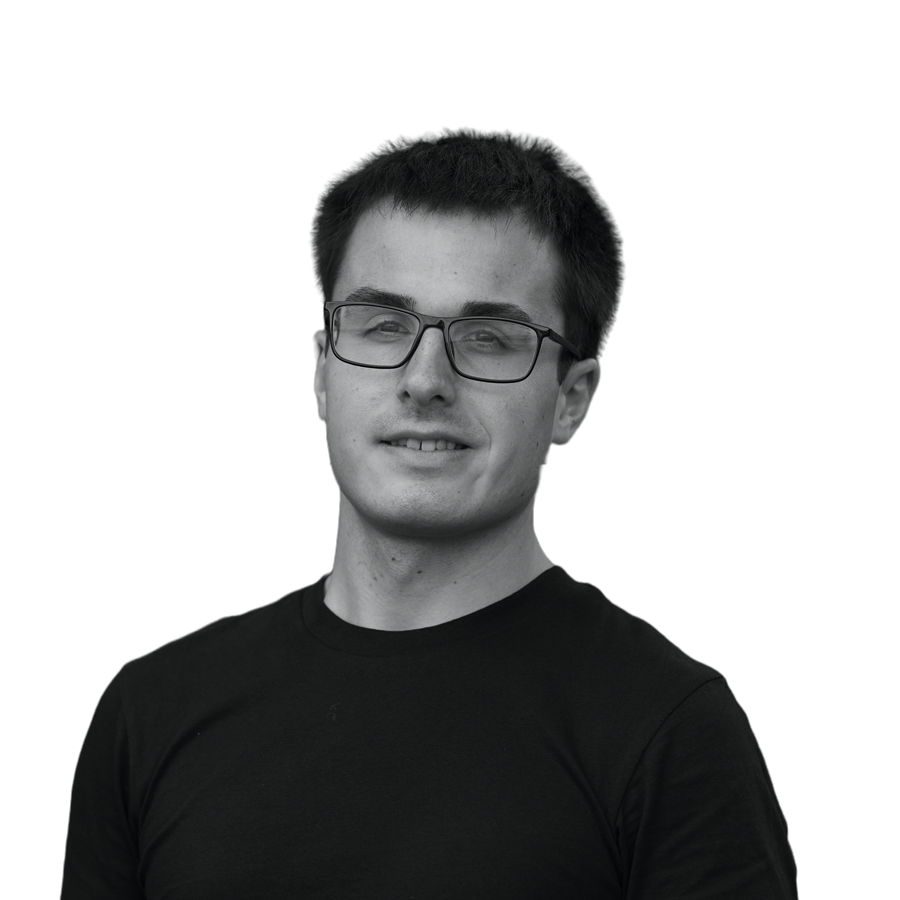
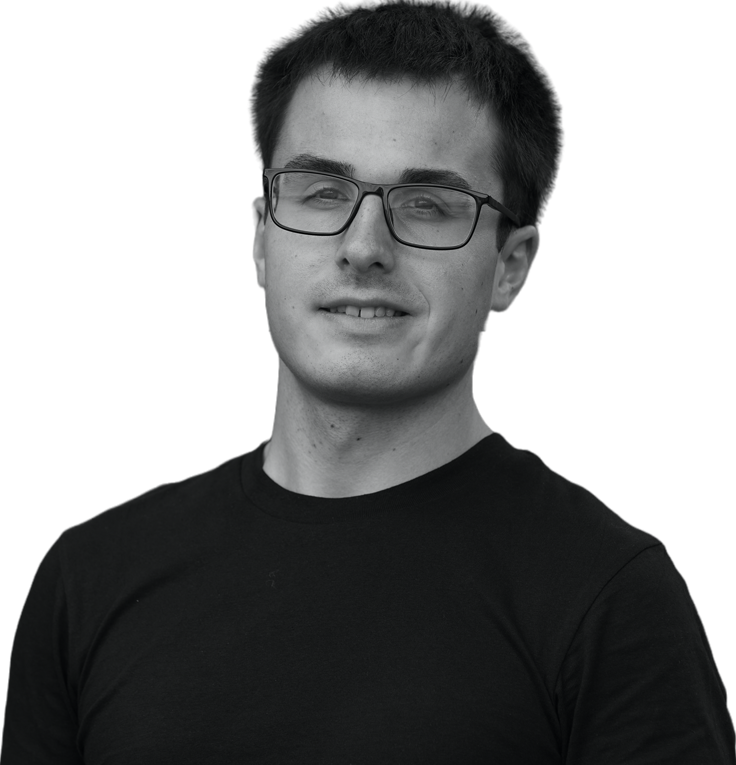
perf: profile image fit crop

Changed region(s): [[0.0, 0.0, 1.0, 1.0]]

diff --git a/src/app/page.module.css b/src/app/page.module.css
@@ -27,9 +27,8 @@
   height: 100%;
   padding-left: 20%;
 }
-.main > .homeContent > h1::after,
-.main > .homeContent > h2::after {
-  content: '';
+.main > .homeContent > h1::after, .main > .homeContent > h2::after {
+  content: "";
 }
 .main > .homeContent > h1 {
   font-size: 6rem;
@@ -76,12 +75,10 @@
   justify-content: flex-end;
   align-items: flex-start;
   gap: 15px;
-  width: 100vw;
   height: 100vh;
   position: absolute;
   right: 0;
   bottom: 0;
-  transform: translateX(55%);
   z-index: 1;
 }
 .main > #profileImageWrapper img {
@@ -153,10 +150,12 @@
   .main > #profileImageWrapper {
     width: -moz-fit-content;
     width: fit-content;
-    transform: translateX(0) translateY(-53%);
+    margin-top: 50px;
     z-index: 0;
   }
   .main > #profileImageWrapper img {
-    width: 400px;
+    width: 100%;
+    -o-object-fit: contain;
+       object-fit: contain;
   }
-} /*# sourceMappingURL=page.module.css.map */
+}/*# sourceMappingURL=page.module.css.map */

diff --git a/src/app/page.module.scss b/src/app/page.module.scss
@@ -11,7 +11,6 @@
   background-size: cover;
   background-repeat: no-repeat;
   position: relative;
-  // overflow: hidden;
 
   & > .homeContent {
     @include mixins.flex('vertical', 'center', 'start', 15px);
@@ -73,12 +72,10 @@
   // Profile image
   & > #profileImageWrapper {
     @include mixins.flex('vertical', end, start, 15px);
-    width: 100vw;
     height: 100vh;
     position: absolute;
     right: 0;
     bottom: 0;
-    transform: translateX(55%);
 
     z-index: 1;
 
@@ -162,12 +159,13 @@
 
     & > #profileImageWrapper {
       width: fit-content;
-      transform: translateX(0) translateY(-53%);
+      margin-top: 50px;
 
       z-index: 0;
 
       & img {
-        width: 400px;
+        width: 100%;
+        object-fit: contain;
       }
     }
   }

diff --git a/src/app/globals.css b/src/app/globals.css
@@ -13,7 +13,6 @@
 html,
 body {
   max-width: 100vw;
-  overflow-x: hidden;
 }
 
 h1,
@@ -24,7 +23,7 @@ h3 {
 h1::after,
 h2::after,
 h3::after {
-  content: '.';
+  content: ".";
   color: #fb2576;
 }
 
@@ -90,4 +89,4 @@ a {
     color-scheme: dark;
     background-color: #121212;
   }
-} /*# sourceMappingURL=globals.css.map */
+}/*# sourceMappingURL=globals.css.map */

diff --git a/src/app/page.jsx b/src/app/page.jsx
@@ -16,8 +16,8 @@ function Home() {
         <Image
           src="/assets/images/fc_profile_image_bg_b&w.png"
           alt="Francisco Coya"
-          width={600}
-          height={600}
+          width={736}
+          height={765}
         />
       </div>
 

diff --git a/src/app/globals.scss b/src/app/globals.scss
@@ -9,7 +9,6 @@
 html,
 body {
   max-width: 100vw;
-  overflow-x: hidden;
 }
 
 // Headings
